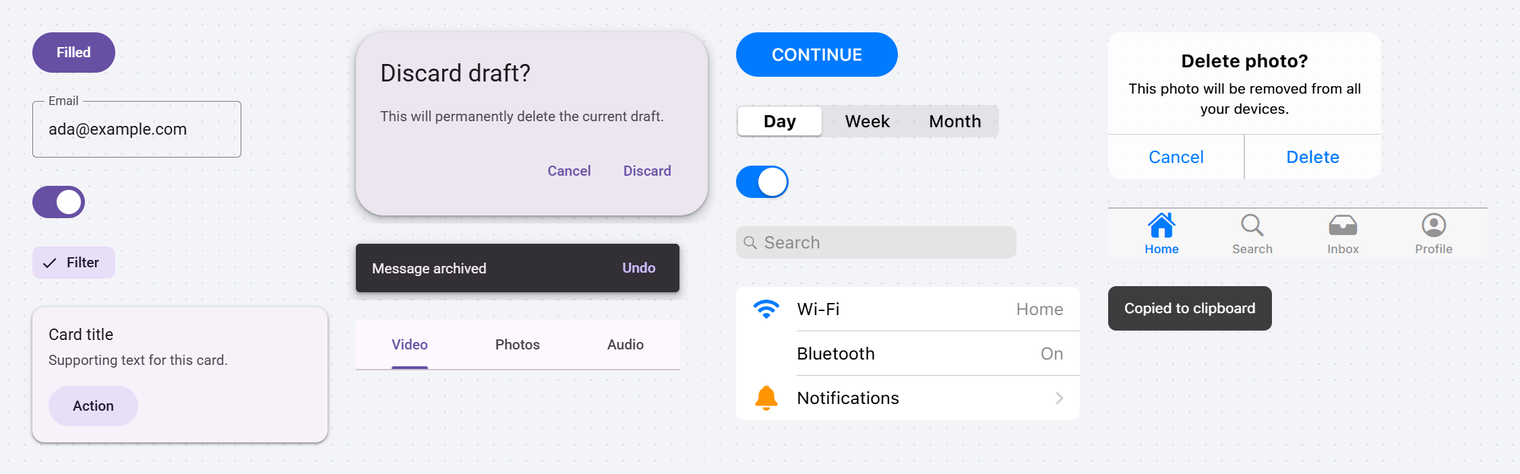
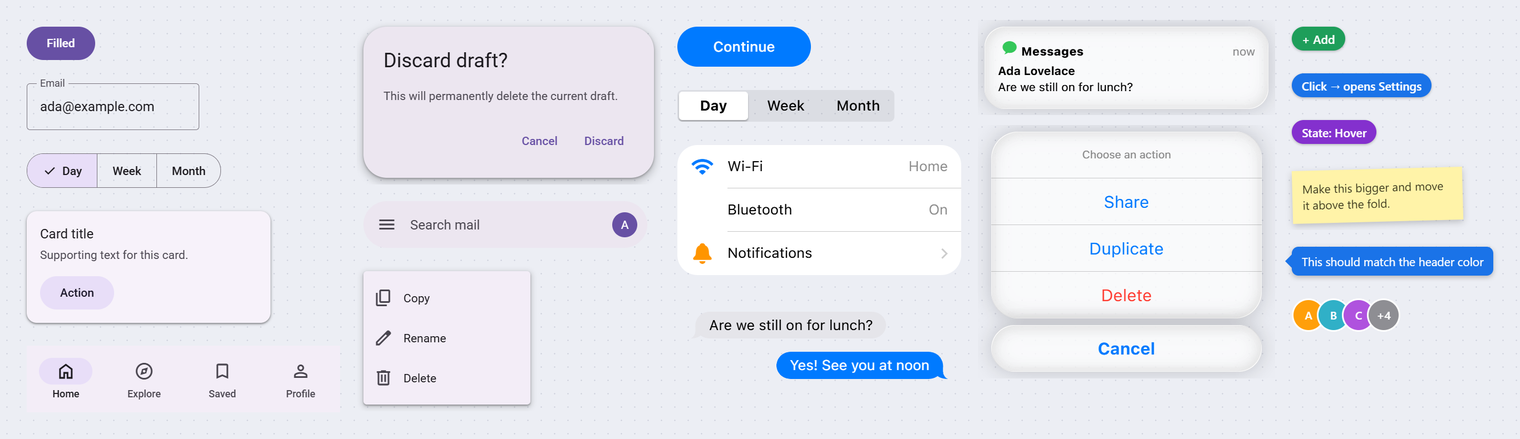
Widgets: Framework7 v9 (iOS 26 look), more M3 / iOS components, Generic and Annotate groups, search

diff --git a/widgets.html b/widgets.html
@@ -1,13 +1,14 @@
 <!doctype html>
 <!-- Widget sources (all open source, loaded from CDN):
      Google: Material Web (@material/web, Apache-2.0), Material Symbols + Roboto (Google Fonts)
-     iOS look: Framework7 (MIT) + Framework7 Icons (MIT) — Apple publishes no open-source UI kit. -->
+     iOS-style: Framework7 v9 (MIT, iOS 26 look) + Framework7 Icons (MIT). Not Apple assets: Apple publishes no open-source UI kit.
+     Generic / Annotate: UIPaste's own CSS. -->
 <html class="ios">
 <head>
 <meta charset="utf-8">
 <link rel="stylesheet" href="https://fonts.googleapis.com/css2?family=Roboto:wght@400;500;700&display=block">
 <link rel="stylesheet" href="https://fonts.googleapis.com/css2?family=Material+Symbols+Outlined&display=block">
-<link rel="stylesheet" href="https://cdn.jsdelivr.net/npm/framework7@8/framework7-bundle.min.css">
+<link rel="stylesheet" href="https://cdn.jsdelivr.net/npm/framework7@9/framework7-bundle.min.css">
 <link rel="stylesheet" href="https://cdn.jsdelivr.net/npm/framework7-icons@5/css/framework7-icons.css">
 <script type="module" src="https://cdn.jsdelivr.net/npm/@material/web@2/all.js/+esm"></script>
 <style>
@@ -16,7 +17,8 @@
            font: 13px Roboto, "Segoe UI", sans-serif; align-items: center; }
   header button { border: 1px solid #ccc; background: #fff; border-radius: 6px; padding: 4px 10px; cursor: pointer; font: inherit; }
   header button.on { background: #1d1b20; color: #fff; border-color: #1d1b20; }
-  header span { margin-left: auto; color: #888; font-size: 11px; }
+  header input { margin-left: auto; width: 170px; border: 1px solid #ccc; border-radius: 6px; padding: 4px 8px; font: inherit; }
+  .hidden { display: none !important; }
   #scroll { height: calc(100% - 45px); overflow: auto; }
   section { display: none; padding: 6px 12px 40px; }
   section.on { display: block; }
@@ -41,7 +43,7 @@
   .capturing #editor { display: none !important; }
   body.edit #scroll { padding-bottom: 50vh; } /* room to scroll the widget above the edit bar */
 
-  /* Framework7 v8 normally injects its color vars from JS; CSS-only use has to set them. iOS system colors. */
+  /* Framework7 normally injects its color vars from JS; CSS-only use has to set them. iOS system colors. */
   :root { --f7-theme-color: #007aff; --f7-theme-color-rgb: 0, 122, 255; --f7-theme-color-shade: #0066d6;
           --f7-theme-color-tint: #298fff; --f7-theme-color-text-color: #007aff; --f7-theme-color-bg-color: #007aff;
           --f7-theme-color-border-color: #007aff; --f7-theme-color-ripple-color: rgba(0,122,255,.3); }
@@ -65,13 +67,75 @@
   .m3-snack { display: flex; align-items: center; gap: 12px; width: 320px; padding: 4px 8px 4px 16px; border-radius: 4px;
               background: #322f35; color: #f5eff7; font: 14px Roboto; position: relative; --md-elevation-level: 3; min-height: 48px; box-sizing: border-box; }
   .m3-snack md-text-button { margin-left: auto; --md-text-button-label-text-color: #d0bcff; }
+  /* Material Web has no app bar / nav bar / segmented / menu surface yet: hand-built from M3 baseline tokens. */
+  .m3-topbar { width: 360px; height: 64px; display: flex; align-items: center; gap: 4px; padding: 0 4px; box-sizing: border-box;
+               background: #fef7ff; font: 22px Roboto; color: #1d1b20; }
+  .m3-topbar .t { flex: 1; padding-left: 4px; }
+  .m3-search { width: 340px; height: 56px; display: flex; align-items: center; gap: 16px; padding: 0 12px 0 16px; box-sizing: border-box;
+               border-radius: 28px; background: #ece6f0; color: #49454f; font: 16px Roboto; }
+  .m3-search .p { flex: 1; }
+  .m3-search .av { width: 30px; height: 30px; border-radius: 50%; background: #6750a4; color: #fff; display: grid; place-items: center; font-size: 14px; }
+  .m3-navbar { width: 375px; height: 80px; display: flex; background: #f3edf7; font: 500 12px Roboto; color: #49454f; }
+  .m3-navbar .i { flex: 1; display: flex; flex-direction: column; align-items: center; justify-content: center; gap: 4px; }
+  .m3-navbar .pill { width: 64px; height: 32px; border-radius: 16px; display: grid; place-items: center; }
+  .m3-navbar .on { color: #1d1b20; }
+  .m3-navbar .on .pill { background: #e8def8; }
+  .m3-seg { display: flex; height: 40px; border: 1px solid #79747e; border-radius: 20px; overflow: hidden; font: 500 14px Roboto; color: #1d1b20; }
+  .m3-seg span { display: flex; align-items: center; gap: 6px; padding: 0 18px; border-left: 1px solid #79747e; }
+  .m3-seg span:first-child { border-left: 0; }
+  .m3-seg .on { background: #e8def8; }
+  .m3-seg md-icon { --md-icon-size: 18px; }
+  .m3-badge { position: relative; width: 24px; height: 24px; color: #49454f; margin: 6px; }
+  .m3-badge b { position: absolute; top: -4px; right: -8px; min-width: 16px; height: 16px; border-radius: 8px; background: #b3261e;
+                color: #fff; font: 500 11px/16px Roboto; text-align: center; padding: 0 4px; box-sizing: border-box; }
+  .m3-menu { position: relative; width: 200px; padding: 8px 0; border-radius: 4px; background: #f3edf7; font: 14px Roboto; color: #1d1b20; --md-elevation-level: 2; }
+  .m3-menu div { display: flex; align-items: center; gap: 12px; height: 48px; padding: 0 12px; }
+  .m3-menu md-icon { color: #49454f; }
+
+  .ios-large-title { width: 375px; padding: 4px 16px 8px; box-sizing: border-box; font: 700 34px -apple-system, "Segoe UI", sans-serif; letter-spacing: .4px; color: #000; }
+  .ios-grabber { width: 36px; height: 5px; border-radius: 3px; background: #c7c7cc; margin: 8px auto 4px; }
+
+  /* Generic */
+  .g-phone { width: 280px; height: 580px; border: 11px solid #111; border-radius: 48px; box-sizing: border-box; position: relative; }
+  .g-phone .island { position: absolute; top: 9px; left: 50%; width: 88px; height: 26px; margin-left: -44px; border-radius: 13px; background: #111; }
+  .g-status { width: 375px; height: 44px; display: flex; align-items: center; justify-content: space-between; padding: 0 22px 0 32px; box-sizing: border-box;
+              font: 600 16px -apple-system, "Segoe UI", sans-serif; color: #000; }
+  .g-status span { display: flex; gap: 6px; }
+  .g-status i { font-size: 17px; }
+  .g-home { width: 134px; height: 5px; border-radius: 3px; background: #000; }
+  .g-img { width: 240px; height: 150px; border-radius: 10px; background: #e5e5ea; color: #aeaeb2; display: grid; place-items: center; }
+  .g-img i { font-size: 44px; }
+  .g-avatar { width: 48px; height: 48px; border-radius: 50%; background: #5856d6; color: #fff; display: grid; place-items: center; font: 600 18px "Segoe UI", sans-serif; }
+  .g-avatars { display: flex; }
+  .g-avatars span { width: 36px; height: 36px; border-radius: 50%; border: 2px solid #fff; margin-left: -10px; color: #fff;
+                    display: grid; place-items: center; font: 600 13px "Segoe UI", sans-serif; }
+  .g-avatars span:first-child { margin-left: 0; }
+  .g-skel { width: 240px; display: grid; gap: 10px; }
+  .g-skel span { height: 12px; border-radius: 6px; background: #e5e5ea; }
+  .g-tip { position: relative; padding: 6px 10px; border-radius: 6px; background: #1f1f1f; color: #fff; font: 13px "Segoe UI", sans-serif; margin-bottom: 6px; }
+  .g-tip::after { content: ""; position: absolute; left: 50%; bottom: -5px; margin-left: -5px; border: 5px solid transparent; border-bottom: 0; border-top-color: #1f1f1f; }
+  .g-tap { width: 44px; height: 44px; border-radius: 50%; background: rgba(0,0,0,.18); border: 2px solid rgba(255,255,255,.9); box-shadow: 0 0 0 1px rgba(0,0,0,.2); }
+
+  /* Annotate */
+  .a-tag { display: inline-block; padding: 5px 12px; border-radius: 999px; color: #fff; font: 600 14px "Segoe UI", sans-serif;
+           box-shadow: 0 1px 3px rgba(0,0,0,.25); white-space: nowrap; }
+  .a-num { display: grid; place-items: center; width: 28px; height: 28px; border-radius: 50%; background: #d93025; color: #fff;
+           font: 700 15px "Segoe UI", sans-serif; box-shadow: 0 1px 3px rgba(0,0,0,.3); border: 2px solid #fff; }
+  .a-box { width: 200px; height: 110px; border: 3px dashed #d93025; border-radius: 8px; background: rgba(217,48,37,.06); }
+  .a-note { width: 180px; padding: 12px; background: #fff3a8; color: #3c3a1e; font: 14px/1.4 "Segoe UI", sans-serif; box-shadow: 0 3px 8px rgba(0,0,0,.2); transform: rotate(-1.5deg); }
+  .a-callout { position: relative; max-width: 240px; padding: 8px 12px; border-radius: 8px; background: #1a73e8; color: #fff; font: 14px "Segoe UI", sans-serif;
+               box-shadow: 0 2px 6px rgba(0,0,0,.25); margin-left: 10px; }
+  .a-callout::before { content: ""; position: absolute; left: -8px; top: 50%; margin-top: -8px; border: 8px solid transparent; border-left: 0; border-right-color: #1a73e8; }
+
 </style>
 </head>
 <body>
 <header>
-  <button data-s="m3" class="on">Material 3 · Google</button>
-  <button data-s="ios">iOS · Framework7</button>
-  <span>点击复制 · Shift+点击贴图 · 右键改文字</span>
+  <button data-s="m3" class="on" title="Google Material Web">Material 3</button>
+  <button data-s="ios" title="Framework7 v9 (iOS 26 look)">iOS-style</button>
+  <button data-s="gen">Generic</button>
+  <button data-s="ann" title="Tags and markers for telling AI / teammates what to change">Annotate</button>
+  <input id="q" type="search" placeholder="搜索 · 点击复制 · 右键改字" title="Click: copy / drop into capture · Shift+click: pin · Right-click: edit text">
 </header>
 <div id="scroll">
 
@@ -124,6 +188,20 @@
     <div class="w" data-name="M3 Dialog"><div class="m3-dialog"><md-elevation></md-elevation><p class="t">Discard draft?</p><p class="s">This will permanently delete the current draft.</p><div class="a"><md-text-button>Cancel</md-text-button><md-text-button>Discard</md-text-button></div></div></div>
     <div class="w" data-name="M3 Snackbar"><div class="m3-snack"><md-elevation></md-elevation>Message archived<md-text-button>Undo</md-text-button></div></div>
   </div>
+  <h3>App bars &amp; navigation</h3>
+  <div class="row">
+    <div class="w" data-name="M3 Top app bar"><div class="m3-topbar"><md-icon-button><md-icon>arrow_back</md-icon></md-icon-button><span class="t">Title</span><md-icon-button><md-icon>search</md-icon></md-icon-button><md-icon-button><md-icon>more_vert</md-icon></md-icon-button></div></div>
+    <div class="w" data-name="M3 Search bar"><div class="m3-search"><md-icon>menu</md-icon><span class="p">Search mail</span><span class="av">A</span></div></div>
+    <div class="w" data-name="M3 Navigation bar"><div class="m3-navbar">
+      <div class="i on"><span class="pill"><md-icon>home</md-icon></span><span>Home</span></div>
+      <div class="i"><span class="pill"><md-icon>explore</md-icon></span><span>Explore</span></div>
+      <div class="i"><span class="pill"><md-icon>bookmark</md-icon></span><span>Saved</span></div>
+      <div class="i"><span class="pill"><md-icon>person</md-icon></span><span>Profile</span></div>
+    </div></div>
+    <div class="w" data-name="M3 Segmented"><div class="m3-seg"><span class="on"><md-icon>check</md-icon>Day</span><span>Week</span><span>Month</span></div></div>
+    <div class="w" data-name="M3 Badge"><div class="m3-badge"><md-icon>notifications</md-icon><b>3</b></div></div>
+    <div class="w" data-name="M3 Menu"><div class="m3-menu"><md-elevation></md-elevation><div><md-icon>content_copy</md-icon>Copy</div><div><md-icon>edit</md-icon>Rename</div><div><md-icon>delete</md-icon>Delete</div></div></div>
+  </div>
 </section>
 
 <section id="ios">
@@ -169,7 +247,101 @@
     <div class="w" data-name="iOS Alert"><div class="dialog dialog-buttons-2 modal-in static"><div class="dialog-inner"><div class="dialog-title">Delete photo?</div><div class="dialog-text">This photo will be removed from all your devices.</div></div><div class="dialog-buttons"><span class="dialog-button">Cancel</span><span class="dialog-button dialog-button-strong color-red">Delete</span></div></div></div>
     <div class="w" data-name="iOS Toast"><div class="toast toast-center modal-in static" style="width:auto"><div class="toast-content"><div class="toast-text">Copied to clipboard</div></div></div></div>
   </div>
+  <h3>More controls</h3>
+  <div class="row">
+    <div class="w" data-name="iOS Small"><a class="button button-fill button-small button-round" style="width:90px">Follow</a></div>
+    <div class="w" data-name="iOS Slider"><div class="range-slider range-slider-horizontal" style="width:220px"><span class="range-bar"><span class="range-bar-active" style="left:0;width:60%"></span></span><span class="range-knob-wrap" style="left:60%"><span class="range-knob"></span></span></div></div>
+    <div class="w" data-name="iOS Progress"><span class="progressbar" style="width:220px;display:block"><span style="transform:translate3d(-40%,0,0)"></span></span></div>
+    <div class="w" data-name="iOS Spinner"><span class="preloader"><span class="preloader-inner"><span class="preloader-inner-line"></span><span class="preloader-inner-line"></span><span class="preloader-inner-line"></span><span class="preloader-inner-line"></span><span class="preloader-inner-line"></span><span class="preloader-inner-line"></span><span class="preloader-inner-line"></span><span class="preloader-inner-line"></span></span></span></div>
+    <div class="w" data-name="iOS Chip"><div class="chip"><div class="chip-label">Design</div></div></div>
+    <div class="w" data-name="iOS Chip outline"><div class="chip chip-outline"><div class="chip-label">Outline</div></div></div>
+  </div>
+  <h3>Forms</h3>
+  <div class="row">
+    <div class="w" data-name="iOS Form"><div class="list inline-labels list-strong inset list-dividers ios-w" style="margin:0"><ul>
+      <li class="item-content item-input"><div class="item-inner"><div class="item-title item-label">Name</div><div class="item-input-wrap"><input type="text" placeholder="Required"></div></div></li>
+      <li class="item-content item-input"><div class="item-inner"><div class="item-title item-label">Email</div><div class="item-input-wrap"><input type="email" value="ada@example.com"></div></div></li>
+    </ul></div></div>
+    <div class="w" data-name="iOS Checklist"><div class="list list-strong inset list-dividers ios-w" style="margin:0"><ul>
+      <li><label class="item-checkbox item-content"><input type="checkbox" checked><i class="icon icon-checkbox"></i><div class="item-inner"><div class="item-title">Books</div></div></label></li>
+      <li><label class="item-checkbox item-content"><input type="checkbox"><i class="icon icon-checkbox"></i><div class="item-inner"><div class="item-title">Movies</div></div></label></li>
+    </ul></div></div>
+    <div class="w" data-name="iOS Radio list"><div class="list list-strong inset list-dividers ios-w" style="margin:0"><ul>
+      <li><label class="item-radio item-radio-icon-end item-content"><input type="radio" name="ios-r" checked><i class="icon icon-radio"></i><div class="item-inner"><div class="item-title">Standard</div></div></label></li>
+      <li><label class="item-radio item-radio-icon-end item-content"><input type="radio" name="ios-r"><i class="icon icon-radio"></i><div class="item-inner"><div class="item-title">Express</div></div></label></li>
+    </ul></div></div>
+  </div>
+  <h3>Content</h3>
+  <div class="row">
+    <div class="w" data-name="iOS Mail list"><div class="list media-list list-strong inset list-dividers ios-w" style="margin:0"><ul>
+      <li><a class="item-link item-content"><div class="item-inner"><div class="item-title-row"><div class="item-title">Ada Lovelace</div><div class="item-after">9:41</div></div><div class="item-subtitle">Lunch on Friday?</div><div class="item-text">Let me know if noon works for you and I'll book a table.</div></div></a></li>
+      <li><a class="item-link item-content"><div class="item-inner"><div class="item-title-row"><div class="item-title">Alan Turing</div><div class="item-after">Yesterday</div></div><div class="item-subtitle">Draft review</div><div class="item-text">Left a few comments on section two.</div></div></a></li>
+    </ul></div></div>
+    <div class="w" data-name="iOS Card"><div class="card" style="width:320px;margin:0"><div class="card-header">Weekend trip</div><div class="card-content card-content-padding">Two nights in Big Sur. Bring a jacket, it gets cold by the coast.</div><div class="card-footer"><a class="link">Like</a><a class="link">Read more</a></div></div></div>
+    <div class="w" data-name="iOS Messages"><div class="messages ios-w" style="background:transparent;padding:0">
+      <div class="message message-received message-first message-last message-tail"><div class="message-content"><div class="message-bubble"><div class="message-text">Are we still on for lunch?</div></div></div></div>
+      <div class="message message-sent message-first message-last message-tail"><div class="message-content"><div class="message-bubble"><div class="message-text">Yes! See you at noon</div></div></div></div>
+    </div></div>
+    <div class="w" data-name="iOS Large title"><div class="ios-large-title">Settings</div></div>
+    <div class="w" data-name="iOS Toolbar"><div class="toolbar toolbar-bottom static" style="width:375px"><div class="toolbar-inner"><a class="link">Edit</a><a class="link"><i class="icon f7-icons">square_arrow_up</i></a><a class="link">Done</a></div></div></div>
+  </div>
+  <h3>More overlays</h3>
+  <div class="row">
+    <div class="w" data-name="iOS Action sheet"><div class="actions-modal modal-in static" style="width:340px"><div class="actions-group"><div class="actions-label">Choose an action</div><div class="actions-button">Share</div><div class="actions-button">Duplicate</div><div class="actions-button color-red">Delete</div></div><div class="actions-group"><div class="actions-button actions-button-strong">Cancel</div></div></div></div>
+    <div class="w" data-name="iOS Notification"><div class="notification modal-in static" style="width:340px"><div class="notification-header"><div class="notification-icon"><i class="icon f7-icons" style="font-size:18px;color:#34c759">chat_bubble_fill</i></div><div class="notification-title">Messages</div><div class="notification-title-right-text">now</div></div><div class="notification-content"><div class="notification-subtitle">Ada Lovelace</div><div class="notification-text">Are we still on for lunch?</div></div></div></div>
+    <div class="w" data-name="iOS Sheet"><div class="sheet-modal modal-in static" style="width:375px;height:auto"><div class="sheet-modal-inner"><div class="ios-grabber"></div><div class="block"><p style="font-weight:600;font-size:17px;margin:0 0 6px">Share with</p><p style="margin:0;color:#8e8e93">AirDrop, Messages, Mail…</p></div></div></div></div>
+    <div class="w" data-name="iOS Popover menu"><div class="popover modal-in static" style="width:220px"><div class="popover-inner"><div class="list" style="margin:0"><ul>
+      <li><a class="list-button item-link">Copy</a></li><li><a class="list-button item-link">Rename</a></li><li><a class="list-button item-link color-red">Delete</a></li>
+    </ul></div></div></div></div>
+  </div>
 </section>
+
+<section id="gen">
+  <h3>Device</h3>
+  <div class="row">
+    <div class="w" data-name="Phone frame"><div class="g-phone"><div class="island"></div></div></div>
+    <div class="w" data-name="Status bar"><div class="g-status"><b>9:41</b><span><i class="icon f7-icons">chart_bar_alt_fill</i><i class="icon f7-icons">wifi</i><i class="icon f7-icons">battery_100</i></span></div></div>
+    <div class="w" data-name="Home indicator"><div class="g-home"></div></div>
+  </div>
+  <h3>Placeholders</h3>
+  <div class="row">
+    <div class="w" data-name="Image placeholder"><div class="g-img"><i class="icon f7-icons">photo</i></div></div>
+    <div class="w" data-name="Avatar"><div class="g-avatar">AL</div></div>
+    <div class="w" data-name="Avatar group"><div class="g-avatars"><span style="background:#ff9f0a">A</span><span style="background:#30b0c7">B</span><span style="background:#af52de">C</span><span style="background:#8e8e93">+4</span></div></div>
+    <div class="w" data-name="Skeleton"><div class="g-skel"><span style="width:100%"></span><span style="width:85%"></span><span style="width:60%"></span></div></div>
+    <div class="w" data-name="Tooltip"><div class="g-tip">Copied!</div></div>
+  </div>
+  <h3>Pointers</h3>
+  <div class="row">
+    <div class="w" data-name="Cursor"><svg width="22" height="30" viewBox="0 0 22 30"><path d="M2 2v22l6-6 4 10 4-2-4-9h8z" fill="#000" stroke="#fff" stroke-width="1.6" stroke-linejoin="round"/></svg></div>
+    <div class="w" data-name="Tap"><div class="g-tap"></div></div>
+  </div>
+</section>
+
+<section id="ann">
+  <h3>Intent tags (for AI or teammates)</h3>
+  <div class="row">
+    <div class="w" data-name="Tag Add"><span class="a-tag" style="background:#1e9e5a">+ Add</span></div>
+    <div class="w" data-name="Tag Remove"><span class="a-tag" style="background:#d93025">− Remove</span></div>
+    <div class="w" data-name="Tag Replace"><span class="a-tag" style="background:#e37400">↻ Replace</span></div>
+    <div class="w" data-name="Tag Move"><span class="a-tag" style="background:#5f6368">⇄ Move</span></div>
+    <div class="w" data-name="Tag Click"><span class="a-tag" style="background:#1a73e8">Click → opens Settings</span></div>
+    <div class="w" data-name="Tag State"><span class="a-tag" style="background:#8430ce">State: Hover</span></div>
+    <div class="w" data-name="Tag Bug"><span class="a-tag" style="background:#b3261e">Bug</span></div>
+    <div class="w" data-name="Tag Question"><span class="a-tag" style="background:#3c4043">? Why</span></div>
+  </div>
+  <h3>Markers</h3>
+  <div class="row">
+    <div class="w" data-name="Marker 1"><span class="a-num">1</span></div>
+    <div class="w" data-name="Marker 2"><span class="a-num">2</span></div>
+    <div class="w" data-name="Marker 3"><span class="a-num">3</span></div>
+    <div class="w" data-name="Highlight box"><div class="a-box"></div></div>
+    <div class="w" data-name="Arrow"><svg width="160" height="24" viewBox="0 0 160 24"><path d="M4 12h140" stroke="#d93025" stroke-width="4" stroke-linecap="round"/><path d="M138 3l16 9-16 9z" fill="#d93025"/></svg></div>
+    <div class="w" data-name="Sticky note"><div class="a-note">Make this bigger and move it above the fold.</div></div>
+    <div class="w" data-name="Callout"><div class="a-callout">This should match the header color</div></div>
+  </div>
+</section>
+
 </div>
 <div id="editor"></div>
 <script>
@@ -177,7 +349,23 @@
     document.querySelectorAll('section').forEach(s => s.classList.toggle('on', s.id === id));
     document.querySelectorAll('header button').forEach(b => b.classList.toggle('on', b.dataset.s === id));
   };
-  document.querySelectorAll('header button').forEach(b => b.onclick = () => show(b.dataset.s));
+  let tab = 'm3';
+  document.querySelectorAll('header button').forEach(b => b.onclick = () => { q.value = ''; show(tab = b.dataset.s); filter(); });
+
+  // Search across every section by widget name; an empty query goes back to the current tab.
+  const q = document.getElementById('q');
+  function filter() {
+    const term = q.value.trim().toLowerCase();
+    document.querySelectorAll('.w').forEach(w => w.classList.toggle('hidden', !!term && !w.dataset.name.toLowerCase().includes(term)));
+    document.querySelectorAll('.row').forEach(r => {
+      const empty = !r.querySelector('.w:not(.hidden)');
+      r.classList.toggle('hidden', empty);
+      r.previousElementSibling?.classList.toggle('hidden', empty);
+    });
+    document.querySelectorAll('section').forEach(sec =>
+      sec.classList.toggle('on', term ? !!sec.querySelector('.w:not(.hidden)') : sec.id === tab));
+  }
+  q.oninput = filter;
   const rect = w => {
     const r = w.firstElementChild.getBoundingClientRect();
     return { name: w.dataset.name, x: r.left, y: r.top, w: r.width, h: r.height };
@@ -267,6 +455,7 @@
   // Used by --dump: bring widget i on screen and report its rect.
   window.rectOf = i => {
     const w = document.querySelectorAll('.w')[i];
+    q.value = ''; filter();
     show(w.closest('section').id);
     w.scrollIntoView({ block: 'center' });
     return rect(w);

diff --git a/README.md b/README.md
@@ -17,7 +17,7 @@
 
 **A tray app that turns any screenshot into a quick UI mockup.** Press `F1` to grab part of the screen, press `F2` to open a palette of real components, and click one to drop it in as a sticker. Move it, scale it, edit its text, then press `Enter` to copy.
 
-The widgets aren't drawings. They're the real open-source components (Google's Material Web, and Framework7's iOS theme), rendered in WebView2 and captured as transparent PNGs at 3× resolution, so text stays sharp at any size.
+~90 widgets in four groups: **Material 3**, **iOS-style** (iOS 26 look), **Generic** (phone frame, status bar, placeholders), and **Annotate** (Add / Remove / Click → tags, markers, sticky notes for telling an AI or a teammate what to change). The UI widgets aren't drawings. They're real open-source components rendered in WebView2 and captured as transparent PNGs at 3× resolution, so text stays sharp at any size.
 
 <p align="center"><img src="docs/widgets.png" alt="Some of the palette: Material 3 buttons, fields, dialog, snackbar, tabs; iOS buttons, segmented control, toggle, settings list, alert, tab bar" width="760"></p>
 
@@ -65,7 +65,7 @@ It lives in the tray. If another app already holds a hotkey (Snipaste takes `F1`
 | Paste in an image | `Ctrl+V` |
 | Finish | `Enter` copies · `Ctrl+S` saves *and* copies · `Ctrl+T` pins · `Esc` quits |
 
-**In the palette**, right-click a widget to edit its text (labels, values, placeholders, even icon names). Edits are remembered; **Reset** restores the default.
+**In the palette**, type to search all groups. Right-click a widget to edit its text (labels, values, placeholders, even icon names). Edits are remembered; **Reset** restores the default.
 
 **On a pin**, the wheel zooms, `Ctrl`+wheel changes opacity, and a double-click closes it.
 
@@ -75,8 +75,11 @@ It lives in the tray. If another app already holds a hotkey (Snipaste takes `F1`
 
 The palette loads these at runtime from jsDelivr / Google Fonts. Nothing is bundled.
 
-- **Material 3:** [Material Web](https://github.com/material-components/material-web) (Apache-2.0), Material Symbols, Roboto
-- **iOS look:** [Framework7](https://github.com/framework7io/framework7) + Framework7 Icons (MIT). Apple doesn't publish an open-source UI kit.
+| Group | Source |
+| --- | --- |
+| Material 3 | [Material Web](https://github.com/material-components/material-web) (Apache-2.0), Material Symbols, Roboto. App bar, nav bar, segmented and menu are hand-built from M3 tokens, since Material Web doesn't ship them yet. |
+| iOS-style | [Framework7 v9](https://github.com/framework7io/framework7) + Framework7 Icons (MIT). These are look-alikes, not Apple assets: Apple doesn't publish an open-source UI kit. |
+| Generic, Annotate | UIPaste's own CSS (MIT) |
 
 Add your own components by editing `widgets.html`: anything wrapped in `<div class="w" data-name="…">` shows up in the palette.
 

diff --git a/README.zh-CN.md b/README.zh-CN.md
@@ -17,7 +17,7 @@
 
 **一个托盘小工具，把任意截图变成 UI 草图。** 按 `F1` 截一块屏幕，按 `F2` 打开控件面板，点一个控件，它就像贴纸一样贴进截图。可以拖动、缩放、改上面的文字，最后按 `Enter` 复制。
 
-这些控件不是画出来的，而是真正的开源组件：Google 的 Material Web，以及 Framework7 的 iOS 主题。它们在 WebView2 里渲染，再按 3 倍分辨率截成透明 PNG，所以放多大字都清晰。
+大约 90 个控件，分四组：**Material 3**、**iOS-style**（iOS 26 外观）、**Generic**（手机外框、状态栏、占位图）、**Annotate**（「+ 添加 / − 删除 / 点击 →」标签、序号、便利贴，用来告诉 AI 或队友要改什么）。这些 UI 控件不是画出来的，而是真正的开源组件，在 WebView2 里渲染后按 3 倍分辨率截成透明 PNG，所以放多大字都清晰。
 
 <p align="center"><img src="docs/widgets.png" alt="面板里的一部分：Material 3 的按钮、输入框、对话框、提示条、标签页；iOS 的按钮、分段控件、开关、设置列表、弹窗、标签栏" width="760"></p>
 
@@ -65,7 +65,7 @@ dist/UIPaste.exe
 | 贴进图片 | `Ctrl+V` |
 | 完成 | `Enter` 复制 · `Ctrl+S` 保存（同时复制）· `Ctrl+T` 贴到屏幕 · `Esc` 退出 |
 
-**控件面板里**，右键一个控件可以改它的文字（标签、值、占位文字，连图标名都能改）。改动会记住，点 **重置** 恢复默认。
+**控件面板里**，直接打字可以搜索所有分组。右键一个控件可以改它的文字（标签、值、占位文字，连图标名都能改）。改动会记住，点 **重置** 恢复默认。
 
 **贴到屏幕的图片上**，滚轮缩放，`Ctrl`+滚轮调透明度，双击关闭。
 
@@ -75,8 +75,11 @@ dist/UIPaste.exe
 
 面板运行时从 jsDelivr / Google Fonts 加载下面这些，仓库里不打包任何一个。
 
-- **Material 3：** [Material Web](https://github.com/material-components/material-web)（Apache-2.0）、Material Symbols、Roboto
-- **iOS 风格：** [Framework7](https://github.com/framework7io/framework7) + Framework7 Icons（MIT）。苹果没有开源的 UI 组件库。
+| 分组 | 来源 |
+| --- | --- |
+| Material 3 | [Material Web](https://github.com/material-components/material-web)（Apache-2.0）、Material Symbols、Roboto。顶栏、底部导航、分段按钮和菜单是按 M3 设计规范手写的，因为 Material Web 还没有这些组件。 |
+| iOS-style | [Framework7 v9](https://github.com/framework7io/framework7) + Framework7 Icons（MIT）。这些只是外观相似，不是苹果官方素材：苹果没有开源的 UI 组件库。 |
+| Generic、Annotate | UIPaste 自己写的 CSS（MIT） |
 
 想加自己的控件就改 `widgets.html`：任何包在 `<div class="w" data-name="…">` 里的东西都会出现在面板上。
 
